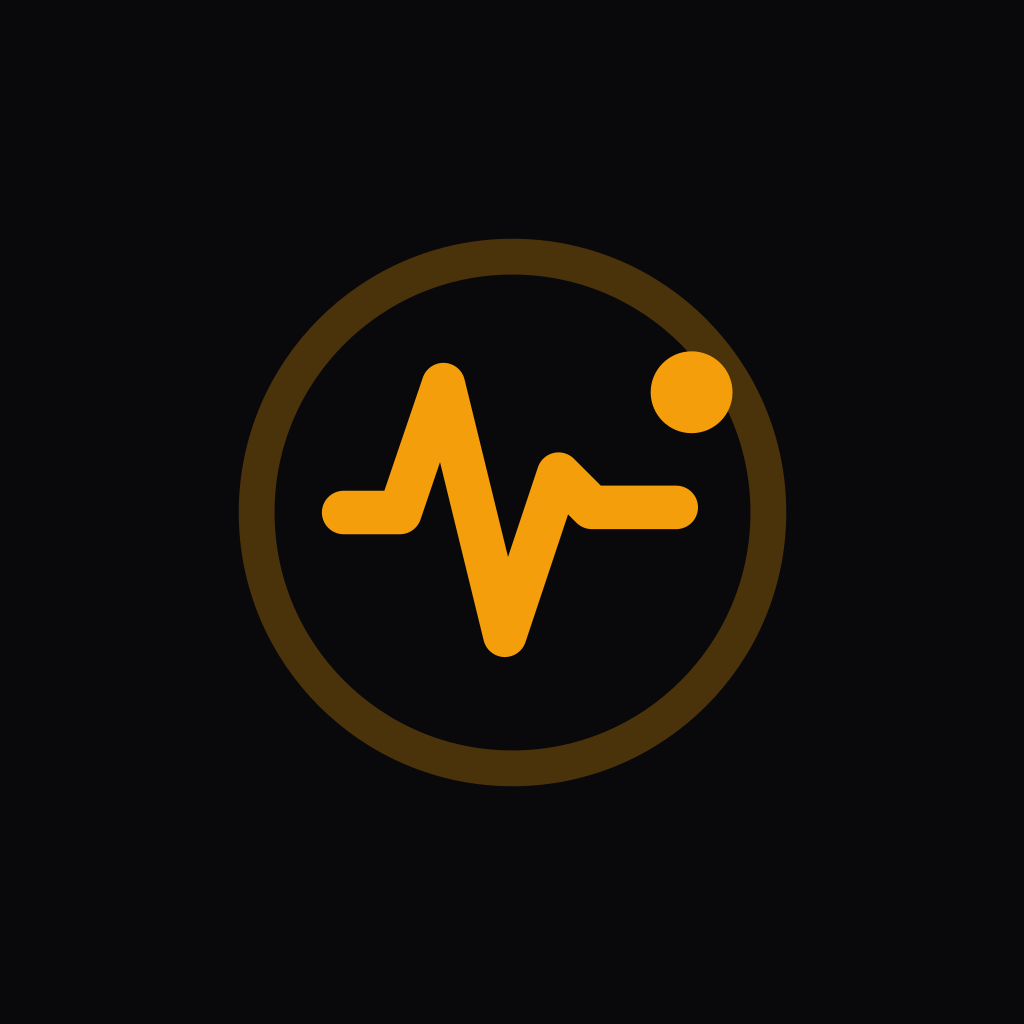
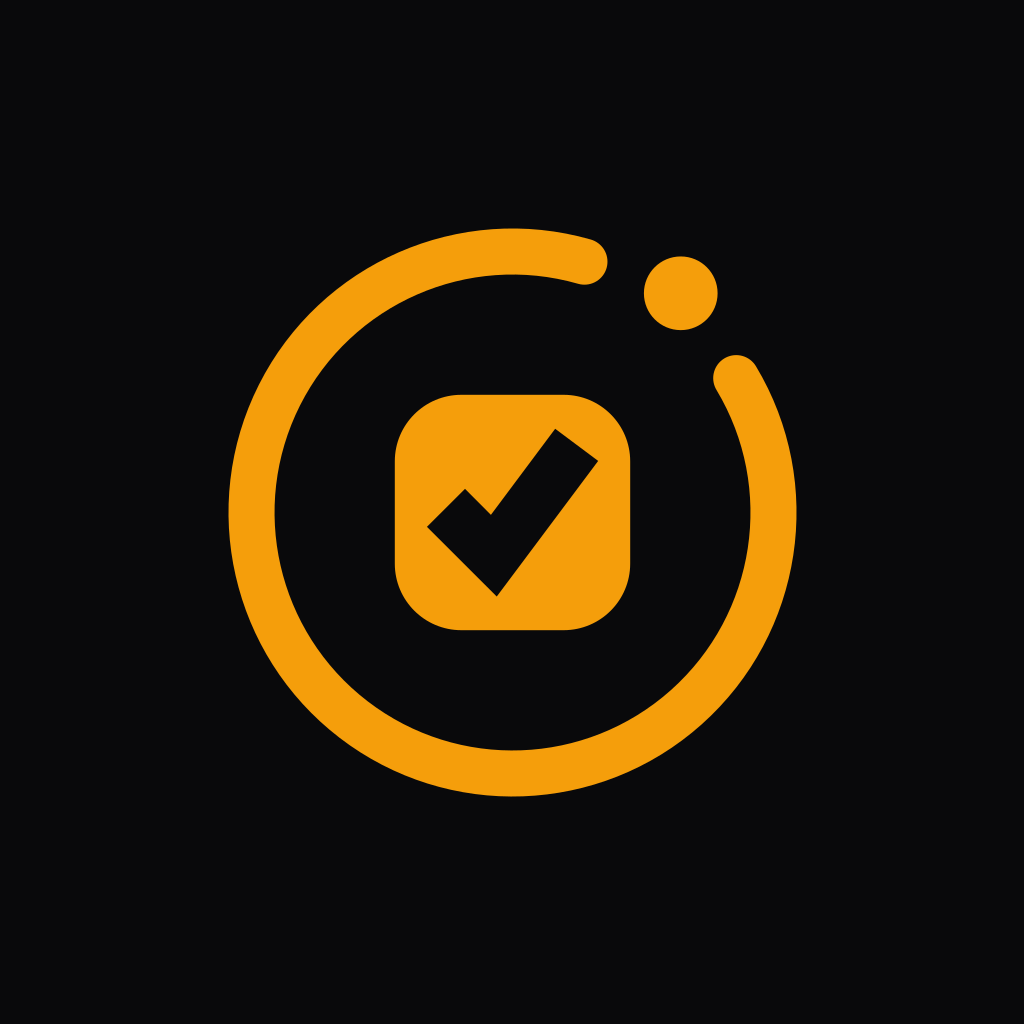
feat(brand): redraw the mark as a pulsar scope
The waveform glyph was Pulsar's alone and broke the set — put the four
icons side by side and only three of them read as siblings. The ring,
the blip and the stroke weight now match Radar, Lidar and Sonar exactly;
only the centre glyph and the amber differ. The glyph is a cell of the
twelve-week wall with the tick knocked out rather than drawn over, so it
holds on any ground, and the whole mark moves to a 64x64 grid so it
stays crisp at 16px in the header and at 1024px as the app icon.

Changed region(s): [[0.2188, 0.2188, 0.7812, 0.7812], [0.3125, 0.3438, 0.6875, 0.6562]]

diff --git a/assets/brand/README.md b/assets/brand/README.md
@@ -1,16 +1,33 @@
-# Pulsar brand
+# Pulsar brand assets
 
-The Ping mark (PING.md section 3): the ring stays, the centre glyph is swapped.
-Pulsar's glyph is the pulse itself — the waveform the app is named for — with the
-blip riding above its tail.
+The mark is a pulsar scope: an open ring sweeping around a held day, with the
+blip breaking out of the gap - one day, kept. The centre glyph is a single cell
+of the twelve-week wall with the tick knocked out of it rather than drawn over
+it, so the mark reads on any ground. Everything is drawn on a 64x64 grid so it
+stays crisp at 16px in the header and at 1024px as an app icon.
 
-| File             | Use                                                        |
-| ---------------- | ---------------------------------------------------------- |
-| `logo.svg`       | amber on transparent. The source for every raster below.    |
-| `logo-mono.svg`  | white on transparent, for the Android monochrome icon.      |
+It is deliberately the *same* mark as Radar's, Lidar's and Sonar's - the same
+ring, the same blip, the same stroke weight - with only the centre glyph and the
+colour changed. Four apps, one family: put the icons side by side and they read
+as a set rather than as four unrelated projects.
 
-Rasters in `assets/images/` are generated — `node scripts/generate-icons.mjs`
-rewrites them from these two files. Never hand-edit a PNG in there.
+| File            | Use                                                                  |
+| --------------- | -------------------------------------------------------------------- |
+| `logo.svg`      | The mark. Imported as a component (`import Logo from '@/assets/brand/logo.svg'`). |
+| `logo-mono.svg` | Single-colour mark using `currentColor` - pass `color` to tint it.    |
+| `splash.svg`    | The mark, for splash/launch surfaces.                                |
+| `google.svg`    | Google's G, for the OAuth button.                                    |
 
-Checked at 16px: the ring has to stay uncropped under a Play Store mask, which
-is why the glyph is inset rather than running edge to edge.
+`logo.svg` is the single source of truth for every PNG in `assets/images/`.
+After editing it, regenerate them:
+
+```bash
+npm run icons
+```
+
+Never hand-edit a PNG in there - the next run overwrites it.
+
+## Palette
+
+One flat colour, no gradients: `#F59E0B` - the `--primary` token from
+`src/theme/colors.ts`. The backdrop everywhere is `#09090B`.

diff --git a/UPDATE.md b/UPDATE.md
@@ -4,6 +4,7 @@
 
 ### Added
 
+- A pulsar scope for a mark, the same ring and blip radar, lidar and sonar wear
 - Sign in with google, or with the email and password you already use in the other three
 - Today: check a habit off with a swipe or a press and hold, and undo it from the toast
 - Today: a ring that counts only the habits actually due today, so a rest day is not a miss
